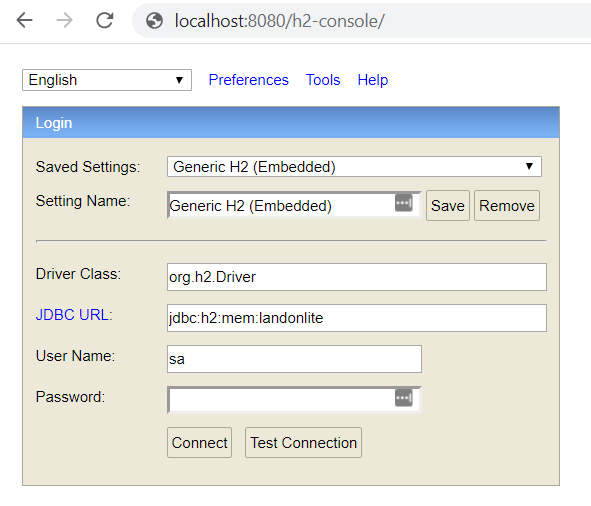
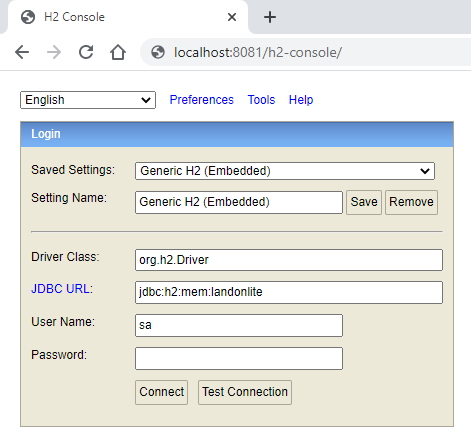
Fixing up documentation to refer to port 8081 for h2console

diff --git a/README.md b/README.md
@@ -35,7 +35,7 @@ should appear
 
 ![LandOnLite](landonlite.png)
 
-To access the H2 database console, go to http://localhost:8080/h2-console and use the credentials shown below:
+To access the H2 database console, go to http://localhost:8081/h2-console and use the credentials shown below:
 
 ![H2 Console Access](h2console.png)
 
